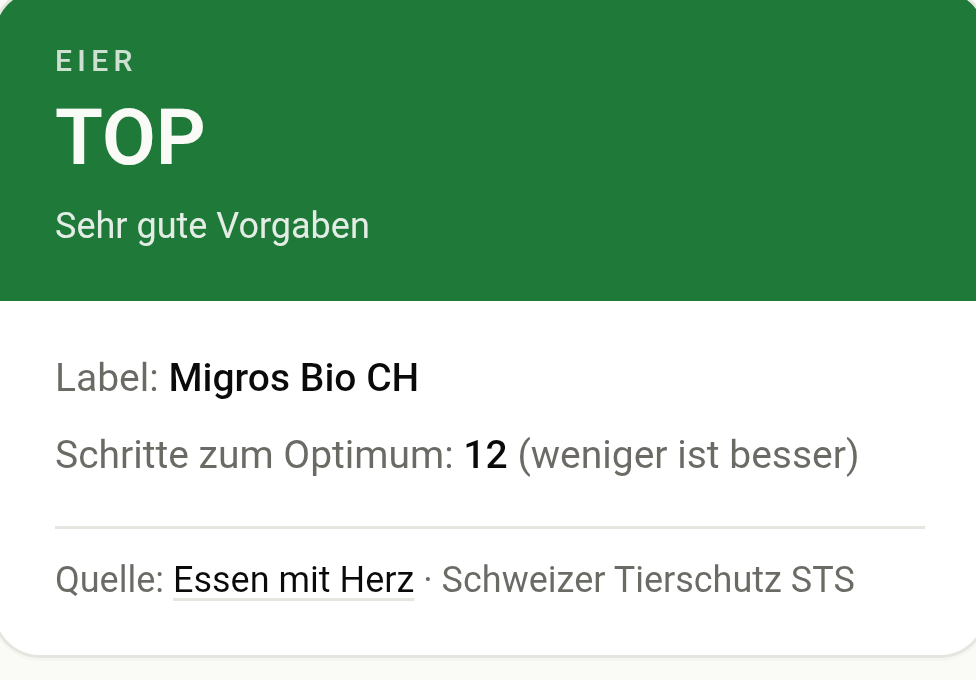
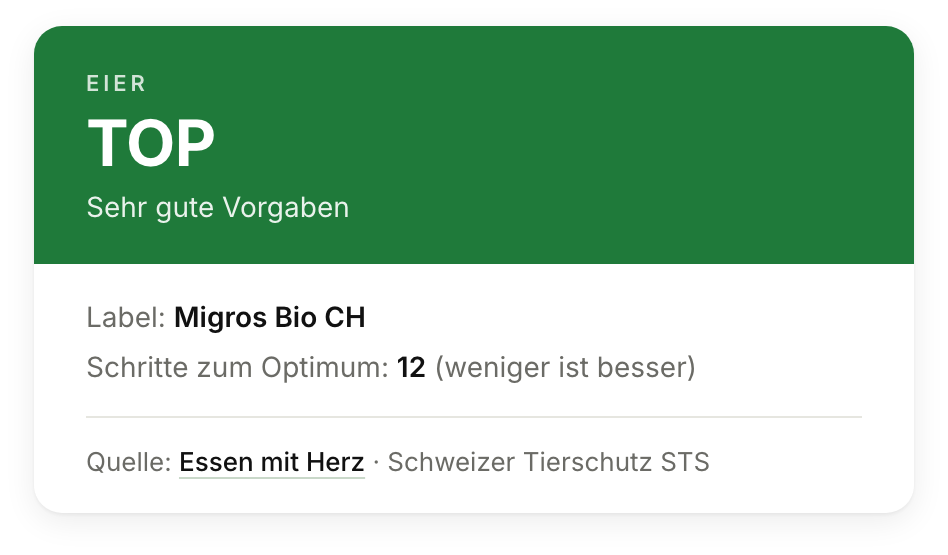
Recreate Tierwohl thumbnail, describe entropicbloom.com as research and essays
- The old Tierwohl screenshot was cut off at the bottom. Replace it with
  a clean render of the same result card on a transparent background.
- entropicbloom.com also hosts the consciousness research project, so the
  headline and footer now say "Research and essays".

diff --git a/layouts/baseof.html b/layouts/baseof.html
@@ -9,7 +9,7 @@
   <footer class="footer">
     <div class="wrap footer__inner">
       <span>© {{ now.Year }} Francesco Lässig</span>
-      <span>Essays at <a href="{{ site.Params.essays }}">{{ strings.TrimPrefix "https://" site.Params.essays }}</a></span>
+      <span>Research and essays at <a href="{{ site.Params.essays }}">{{ strings.TrimPrefix "https://" site.Params.essays }}</a></span>
     </div>
   </footer>
 </body>

diff --git a/content/_index.md b/content/_index.md
@@ -8,7 +8,7 @@ org:
   url: https://llmify.ch
 intro: Building sovereign AI solutions for Swiss companies and non-profits.
 essays:
-  text: Essays on AI and consciousness
+  text: Research and essays on consciousness and AI
   url: https://entropicbloom.com
 
 links:
